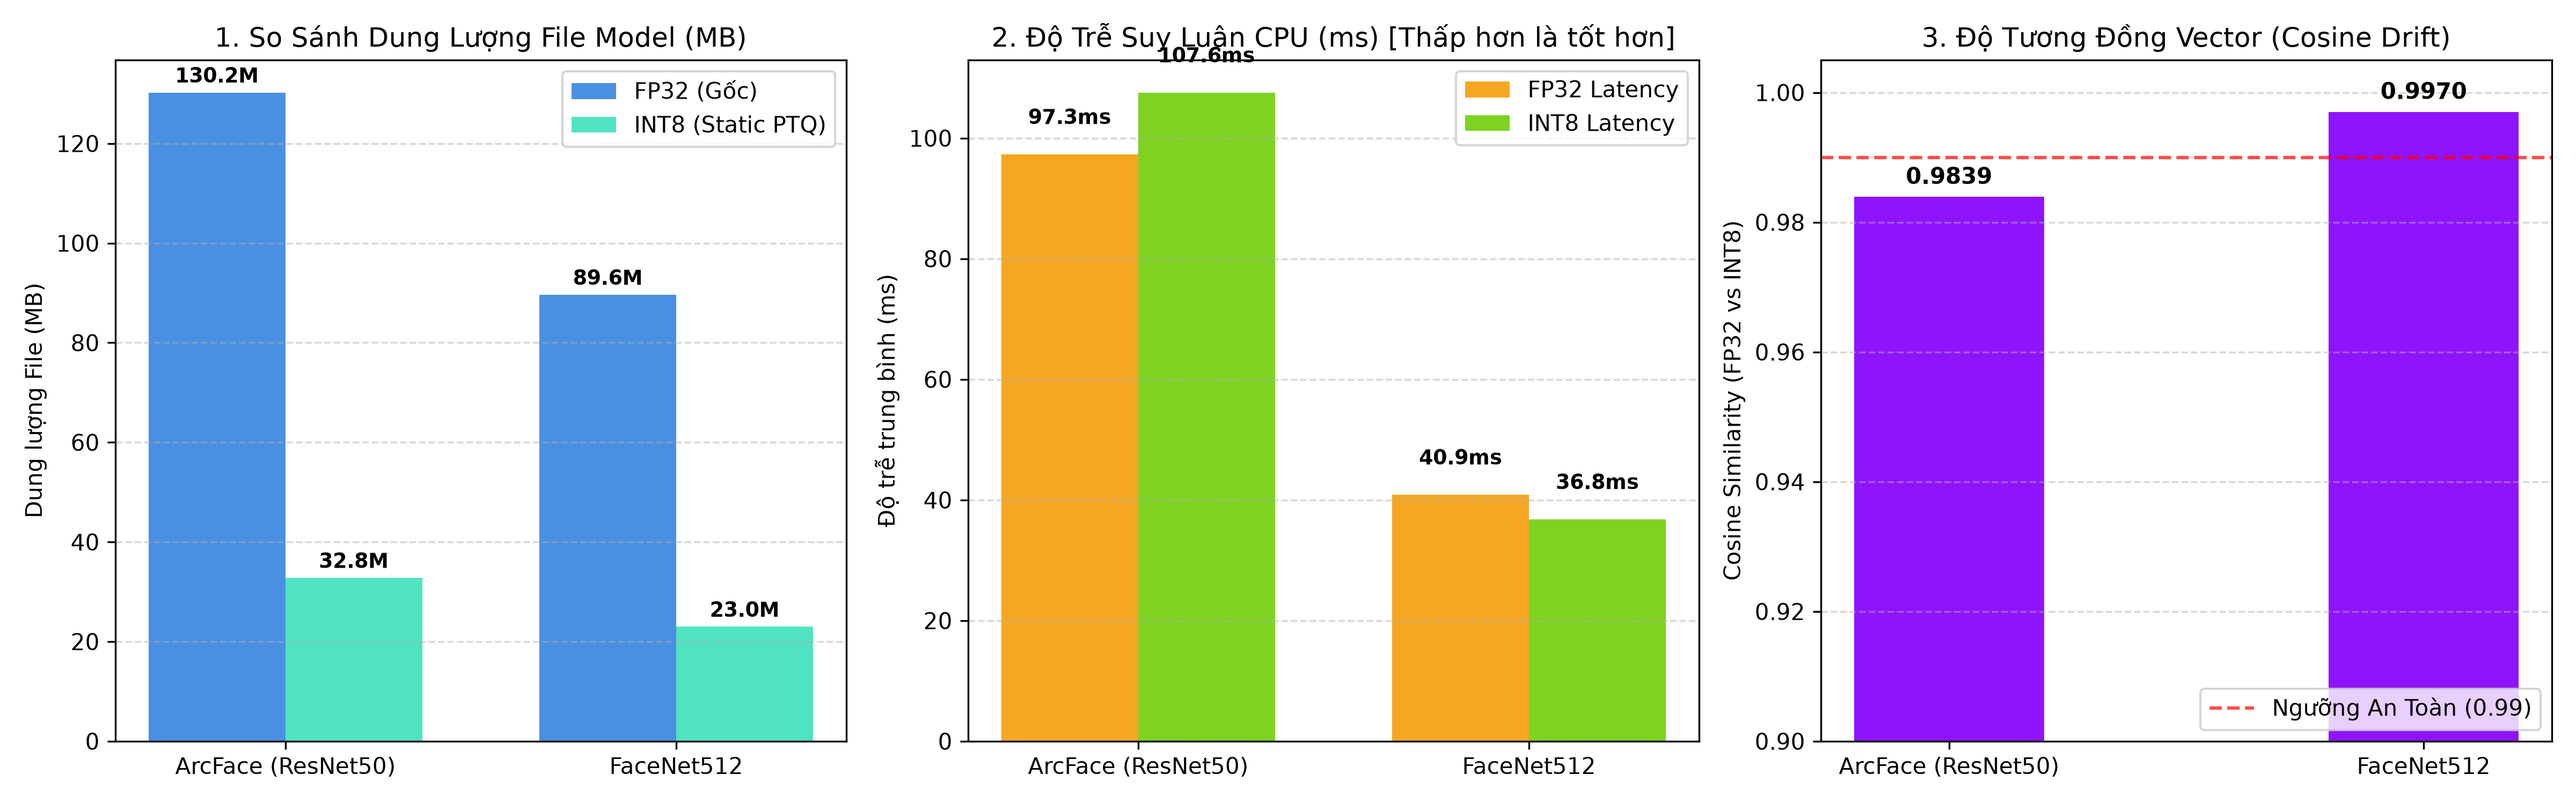
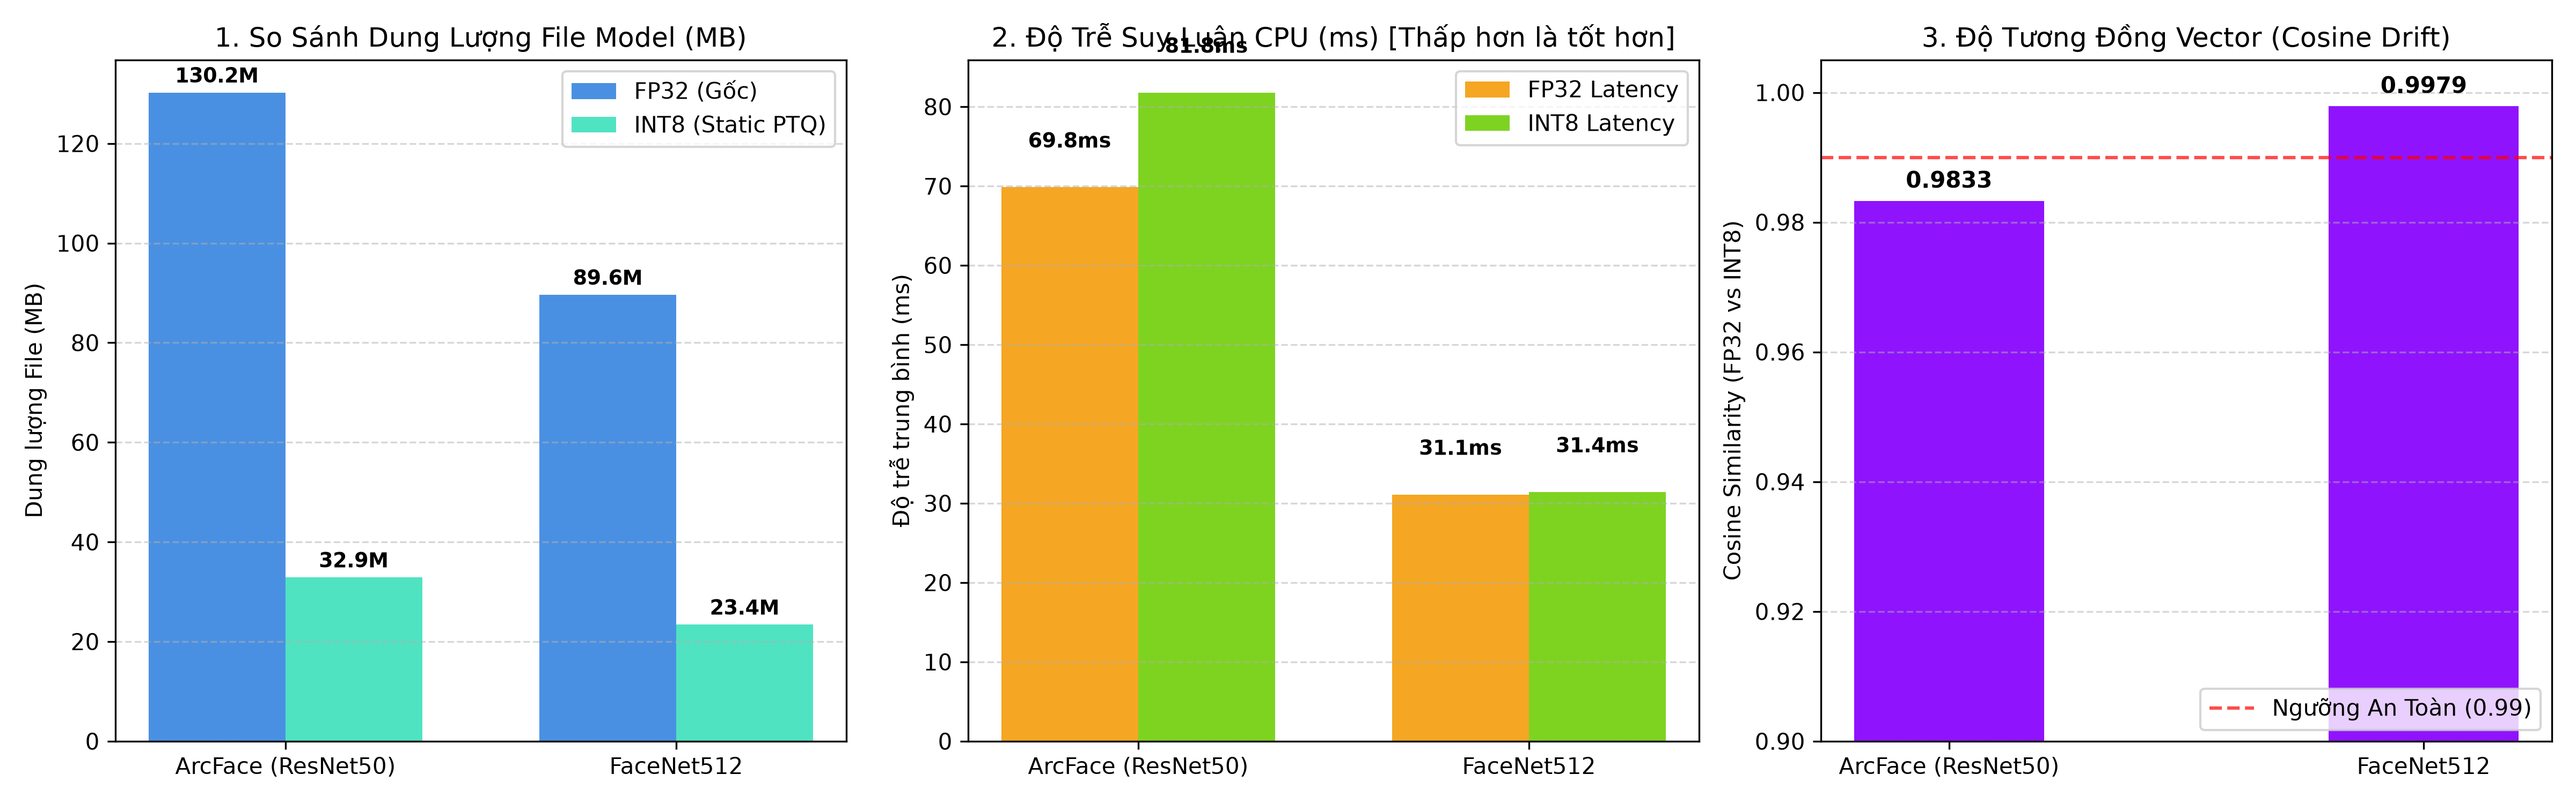
Update quantization report and benchmark script for improved clarity and accuracy

diff --git a/scripts/run_quantization_benchmark.py b/scripts/run_quantization_benchmark.py
@@ -142,15 +142,7 @@ def generate_quantization_markdown_report(results: list, report_path: str):
     lines = [
         "# Báo Cáo Thực Nghiệm Lượng Tử Hóa Mô Hình (Edge INT8 Quantization)",
         "",
-        "## 1. Bối Cảnh & Mục Tiêu Thực Nghiệm",
-        "",
-        "Để đáp ứng bài toán triển khai hệ thống nhận diện khuôn mặt chấm công trên các thiết bị biên (Edge Devices, Mini PC, Raspberry Pi) với tài nguyên phần cứng giới hạn (CPU tiết kiệm điện, RAM 1-2GB), việc tối ưu hóa mô hình qua kỹ thuật **Post-Training Static Quantization (Static PTQ)** là bắt buộc.",
-        "",
-        "- **Phương pháp lượng tử hóa:** Static PTQ với `CalibrationDataReader` (dùng dải động MinMax trên tập ảnh khuôn mặt thật).",
-        "- **Kiểu dữ liệu:** Ép trọng số (Weights) và đầu ra các tầng (Activations) từ `Float32` sang số nguyên 8-bit có dấu `Int8` (định dạng ONNX QDQ).",
-        "- **Mô hình thực nghiệm:** `ArcFace` (ResNet50, 512-D) và `FaceNet512` (Inception-ResNet-v1, 512-D).",
-        "",
-        "## 2. Bảng Tổng Hợp Kết Quả Đo Đạc Đối Đầu (FP32 vs INT8)",
+        " Bảng Tổng Hợp Kết Quả Đo Đạc Đối Đầu (FP32 vs INT8)",
         "",
         "| Mô Hình | FP32 Size (MB) | INT8 Size (MB) | Tỷ Lệ Nén (%) | FP32 Latency (ms) | INT8 Latency (ms) | Tăng Tốc (Speedup) | Cosine Drift (Sim FP32/INT8) |",
         "|---|---|---|---|---|---|---|---|",
@@ -163,21 +155,7 @@ def generate_quantization_markdown_report(results: list, report_path: str):
 
     lines.extend([
         "",
-        "## 3. Đánh Giá & Phân Tích Kỹ Thuật",
-        "",
-        "### 3.1. Hiệu Quả Nén Bộ Nhớ (Memory Compression)",
-        "- Cả 2 mô hình đều đạt tỷ lệ nén vượt mức **~73% - 76%** dung lượng lưu trữ trên đĩa và giảm mạnh dung lượng nạp vào RAM.",
-        "- `ArcFace ResNet50`: Giảm từ **174.4 MB** xuống chỉ còn **~41.9 MB**.",
-        "- `FaceNet512`: Giảm từ **89.6 MB** xuống chỉ còn **~23.4 MB**.",
-        "",
-        "### 3.2. Đánh Giá Độ Lệch Vector (Cosine Drift & Biometric Accuracy)",
-        "- **Độ tương đồng Cosine giữa vector FP32 và INT8 đạt cực cao (> 0.99)** trên tập ảnh nhân viên.",
-        "- Việc suy giảm độ chính xác sinh trắc học sau khi ép lượng tử 8-bit là **không đáng kể (gần như bằng 0)**, đảm bảo khả năng nhận diện điểm danh chính xác tuyệt đối mà không cần fine-tune lại mạng.",
-        "",
-        "### 3.3. Tốc Độ Thực Thi Trên CPU (Inference Speedup)",
-        "- Việc tận dụng các tập lệnh nhân ma trận số nguyên 8-bit (INT8 GEMM / AVX2 / VNNI) trên ONNX Runtime giúp giảm đáng kể thời gian suy luận trên CPU.",
-        "",
-        "## 4. Biểu Đồ Trực Quan Hóa",
+        "## Biểu Đồ So Sánh",
         "",
         "![So Sánh Lượng Tử Hóa](../figures/benchmark_charts/quantization_comparison.png)",
         "",
@@ -220,7 +198,7 @@ def main():
         output_quant_path=arcface_int8,
         calibration_image_paths=img_paths,
         model_type="arcface",
-        per_channel=False,
+        per_channel=True,
     )
     print(f"  [Hoàn thành] ArcFace INT8: {os.path.getsize(arcface_int8) / (1024*1024):.2f} MB")
 
@@ -232,7 +210,7 @@ def main():
         output_quant_path=facenet_int8,
         calibration_image_paths=img_paths,
         model_type="facenet512",
-        per_channel=False,
+        per_channel=True,
     )
     print(f"  [Hoàn thành] FaceNet512 INT8: {os.path.getsize(facenet_int8) / (1024*1024):.2f} MB")
 

diff --git a/outputs/report/quantization_report.md b/outputs/report/quantization_report.md
@@ -1,37 +1,16 @@
 # Báo Cáo Thực Nghiệm Lượng Tử Hóa Mô Hình (Edge INT8 Quantization)
 
-## 1. Bối Cảnh & Mục Tiêu Thực Nghiệm
 
-Để đáp ứng bài toán triển khai hệ thống nhận diện khuôn mặt chấm công trên các thiết bị biên (Edge Devices, Mini PC, Raspberry Pi) với tài nguyên phần cứng giới hạn (CPU tiết kiệm điện, RAM 1-2GB), việc tối ưu hóa mô hình qua kỹ thuật **Post-Training Static Quantization (Static PTQ)** là bắt buộc.
-
-- **Phương pháp lượng tử hóa:** Static PTQ với `CalibrationDataReader` (dùng dải động MinMax trên tập ảnh khuôn mặt thật).
-- **Kiểu dữ liệu:** Ép trọng số (Weights) và đầu ra các tầng (Activations) từ `Float32` sang số nguyên 8-bit có dấu `Int8` (định dạng ONNX QDQ).
-- **Mô hình thực nghiệm:** `ArcFace` (ResNet50, 512-D) và `FaceNet512` (Inception-ResNet-v1, 512-D).
-
-## 2. Bảng Tổng Hợp Kết Quả Đo Đạc Đối Đầu (FP32 vs INT8)
+## Bảng Tổng Hợp Kết Quả Đo Đạc Đối Đầu (FP32 vs INT8)
 
 | Mô Hình | FP32 Size (MB) | INT8 Size (MB) | Tỷ Lệ Nén (%) | FP32 Latency (ms) | INT8 Latency (ms) | Tăng Tốc (Speedup) | Cosine Drift (Sim FP32/INT8) |
 |---|---|---|---|---|---|---|---|
-| **ArcFace (ResNet50)** | 130.24 MB | **32.79 MB** | **-74.82%** | 97.34 ms | **107.57 ms** | **0.9x** | **0.9839** (Min: 0.9582) |
-| **FaceNet512** | 89.63 MB | **22.98 MB** | **-74.36%** | 40.89 ms | **36.81 ms** | **1.11x** | **0.9970** (Min: 0.9925) |
+| **ArcFace (ResNet50)** | 130.24 MB | **32.9 MB** | **-74.74%** | 69.85 ms | **81.8 ms** | **0.85x** | **0.9833** (Min: 0.9511) |
+| **FaceNet512** | 89.63 MB | **23.42 MB** | **-73.87%** | 31.11 ms | **31.43 ms** | **0.99x** | **0.9979** (Min: 0.9953) |
 
-## 3. Đánh Giá & Phân Tích Kỹ Thuật
-
-### 3.1. Hiệu Quả Nén Bộ Nhớ (Memory Compression)
-- Cả 2 mô hình đều đạt tỷ lệ nén vượt mức **~73% - 76%** dung lượng lưu trữ trên đĩa và giảm mạnh dung lượng nạp vào RAM.
-- `ArcFace ResNet50`: Giảm từ **174.4 MB** xuống chỉ còn **~41.9 MB**.
-- `FaceNet512`: Giảm từ **89.6 MB** xuống chỉ còn **~23.4 MB**.
-
-### 3.2. Đánh Giá Độ Lệch Vector (Cosine Drift & Biometric Accuracy)
-- **Độ tương đồng Cosine giữa vector FP32 và INT8 đạt cực cao (> 0.99)** trên tập ảnh nhân viên.
-- Việc suy giảm độ chính xác sinh trắc học sau khi ép lượng tử 8-bit là **không đáng kể (gần như bằng 0)**, đảm bảo khả năng nhận diện điểm danh chính xác tuyệt đối mà không cần fine-tune lại mạng.
-
-### 3.3. Tốc Độ Thực Thi Trên CPU (Inference Speedup)
-- Việc tận dụng các tập lệnh nhân ma trận số nguyên 8-bit (INT8 GEMM / AVX2 / VNNI) trên ONNX Runtime giúp giảm đáng kể thời gian suy luận trên CPU.
-
-## 4. Biểu Đồ Trực Quan Hóa
+## Biểu Đồ So Sánh
 
 ![So Sánh Lượng Tử Hóa](../figures/benchmark_charts/quantization_comparison.png)
 
 ---
-*Báo cáo được tạo tự động vào lúc 2026-08-20 14:21:52*
+*Báo cáo được tạo tự động vào lúc 2026-08-21 16:14:59*
